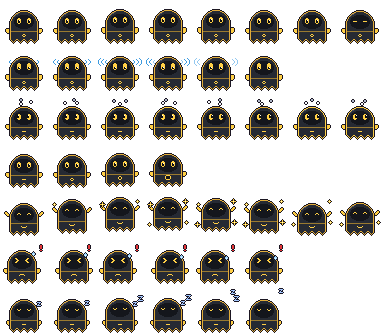
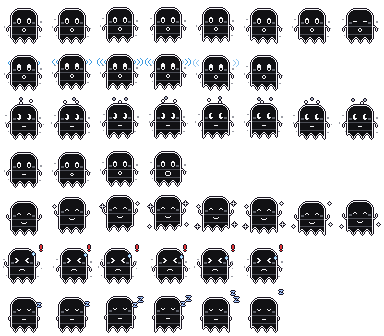
feat(pets): redraw Gigi after the brand mark
Gigi was a gold-rimmed robot that matched neither docs/BRAND.md nor the app
icon. It is now the black-and-white bit-ghost: white edge, white oval eyes
with black pupils, grey cheek marks and bands, the small "o" mouth, thin
hanging arms, three sharp hem teeth and the loose grey bits. It floats
instead of breathing, the hem drifts sideways each frame, the bits twinkle
at rest and jitter while it thinks, the arms flail on errors, and the
success sparkles are white instead of gold.

Changed region(s): [[0.0, 0.0, 1.0, 0.4167], [0.0, 0.744, 0.75, 1.0], [0.0, 0.4464, 1.0, 0.7143]]

diff --git a/scripts/pets/build_pets.py b/scripts/pets/build_pets.py
@@ -31,7 +31,7 @@ import math
 import sys
 from collections.abc import Callable, Iterable, Iterator, Mapping, Sequence
 from contextlib import contextmanager
-from dataclasses import dataclass, field
+from dataclasses import dataclass, field, replace
 from pathlib import Path
 
 REPO_ROOT = Path(__file__).resolve().parents[2]
@@ -528,7 +528,12 @@ _SPARK_L = ("..#..", "..#..", "##o##", "..#..", "..#..")
 _SPARK_PALETTE = {"#": SPARK, "o": SPARK_CORE}
 
 
-def fx_sparkles(f: Frame, i: int, spots: Sequence[tuple[int, int, int]]) -> None:
+def fx_sparkles(
+    f: Frame,
+    i: int,
+    spots: Sequence[tuple[int, int, int]],
+    palette: Mapping[str, RGBA] = _SPARK_PALETTE,
+) -> None:
     """Sparkles at ``(x, y, first_frame)`` centres: small, big, small, gone."""
     for x, y, start in spots:
         age = i - start
@@ -536,7 +541,7 @@ def fx_sparkles(f: Frame, i: int, spots: Sequence[tuple[int, int, int]]) -> None
             continue
         rows = _SPARK_L if age in (1, 2) else _SPARK_S
         half = len(rows) // 2
-        f.glyph(x - half, y - half, rows, _SPARK_PALETTE)
+        f.glyph(x - half, y - half, rows, palette)
 
 
 _Z_SMALL = ("####", "..#.", ".#..", "####")
@@ -635,96 +640,175 @@ class PetDesign:
 
 
 # -- Gigi: the Jarvis ghost ---------------------------------------------------
+#
+# Drawn after the brand mark (``assets/icons/jarvis-gigi-256.png``, docs/BRAND.md):
+# a black body with a white edge, a rounded head with straight sides, white
+# oval eyes with black pupils, grey cheek marks, two grey bands with a small
+# "o" mouth between them, thin hanging arms, three sharp teeth along the hem
+# and loose grey bits around it. A ghost floats, so Gigi bobs instead of
+# breathing, and the hem flows sideways one pixel a frame.
 
-GIGI_BODY = hexc("#262a33")
-GIGI_RIM = hexc("#e2ad3a")
-GIGI_PLATE = hexc("#14161c")
-GIGI_GLOSS = hexc("#4d5465")
-GIGI_BELT = hexc("#9a7a30")
-GIGI_GOLD = hexc("#ffcf45")
-GIGI_EYES = EyeStyle(
-    w=4, h=6, iris=GIGI_GOLD, pupil=hexc("#0b0c10"), glint=hexc("#fffbe6"), lid=GIGI_GOLD
-)
+GIGI_BODY = hexc("#111114")
+GIGI_WHITE = hexc("#f4f4f6")
+GIGI_PUPIL = hexc("#0b0b0d")
+GIGI_BAND = hexc("#4b4d55")
+GIGI_CHEEK = hexc("#5c5f68")
+GIGI_BIT = hexc("#9a9ca4")
+GIGI_EYES = EyeStyle(w=4, h=6, iris=GIGI_WHITE, pupil=GIGI_PUPIL, glint=None, lid=GIGI_WHITE)
+#: Brand sparkles: white with a bright core instead of the shared gold.
+GIGI_SPARK = {"#": hexc("#d9dbe2"), "o": hexc("#ffffff")}
+
+#: The body box: columns 11-36 (symmetric about CX), head from row 9, full
+#: width down to row 36, then the toothed hem.
+_GIGI_X0, _GIGI_X1, _GIGI_TOP, _GIGI_SKIRT = 11, 36, 9, 36
+_GIGI_RADIUS = 9
+#: Hem depth per column within one tooth (period 9): sharp tips, narrow valleys,
+#: about three teeth across the body like the brand mark.
+_GIGI_TOOTH = (1, 2, 3, 5, 6, 5, 3, 2, 1)
+#: The idle float: up a pixel and back over the seven ordinary idle cells.
+_GIGI_FLOAT = (0, 0, -1, -1, -1, 0, 0)
+_GIGI_THINK_FLOAT = (0, 0, -1, -1, -1, -1, 0, 0)
 
 
 def _gigi_body(phase: int) -> Mask:
-    dome = {p for p in ellipse(CX, 25, 14, 14) if p[1] <= 24}
-    torso = rect(10, 25, 37, 38)
-    teeth: Mask = set()
-    for k in range(4):
-        apex = 13 + 7 * k + phase
-        for r in range(4):
-            for x in range(apex - (3 - r), apex + (3 - r) + 1):
-                if 10 <= x <= 37:
-                    teeth.add((x, 39 + r))
-    return dome | torso | teeth
+    """The silhouette; ``phase`` slides the hem's teeth sideways."""
+    body: Mask = set()
+    left_c = (_GIGI_X0 + _GIGI_RADIUS, _GIGI_TOP + _GIGI_RADIUS)
+    right_c = (_GIGI_X1 + 1 - _GIGI_RADIUS, _GIGI_TOP + _GIGI_RADIUS)
+    for y in range(_GIGI_TOP, _GIGI_SKIRT + 1):
+        for x in range(_GIGI_X0, _GIGI_X1 + 1):
+            px, py = x + 0.5, y + 0.5
+            if py < left_c[1]:
+                centre = left_c if px < left_c[0] else right_c if px > right_c[0] else None
+                if centre is not None and math.hypot(px - centre[0], py - centre[1]) > _GIGI_RADIUS:
+                    continue
+            body.add((x, y))
+    period = len(_GIGI_TOOTH)
+    for x in range(_GIGI_X0, _GIGI_X1 + 1):
+        depth = _GIGI_TOOTH[(x - _GIGI_X0 + phase) % period]
+        body |= {(x, _GIGI_SKIRT + k) for k in range(1, depth + 1)}
+    return body
 
 
+def _gigi_hem_phase(pose: Pose) -> int:
+    """One pixel of drift per frame, looping cleanly over each looping row.
+
+    Talking frames are picked by the voice level, not in order, and the error
+    shake is busy enough: both keep the hem still.
+    """
+    if pose.state in ("talking", "error"):
+        return 0
+    frames = len(_GIGI_FLOAT) if pose.state == "idle" else FRAME_COUNTS[pose.state]
+    return pose.i * len(_GIGI_TOOTH) // frames
+
+
+#: Thin arms hanging from the upper band, left side (the right one is mirrored).
+#: The first pixel sits in the body's outline column so the arm joins the edge.
 _GIGI_ARMS = {
-    "rest": from_rows(6, 29, ("###.", "####", "####", ".###")),
-    "up": from_rows(5, 19, ("##..", "###.", ".###", "..##")),
-    "droop": from_rows(7, 32, ("###", "###", "###", ".##")),
+    "rest": frozenset({(10, 26), (9, 26), (8, 27), (7, 28), (7, 29), (7, 30)}),
+    "up": frozenset({(10, 26), (9, 26), (8, 25), (7, 24), (7, 23), (7, 22)}),
+    "droop": frozenset({(10, 27), (9, 28), (9, 29), (9, 30)}),
 }
 
 
 def _gigi_arm_style(pose: Pose) -> str:
-    return {"success": "up", "sleeping": "droop"}.get(pose.state, "rest")
+    if pose.state == "success":
+        return "up"
+    if pose.state == "error":
+        return "up" if pose.i % 2 == 0 else "rest"  # flailing
+    if pose.state == "sleeping":
+        return "droop"
+    return "rest"
+
+
+#: The loose bits around the brand mark.
+_GIGI_BITS: tuple[Mask, ...] = (
+    rect(6, 19, 7, 19),
+    rect(4, 26, 4, 27),
+    {(8, 35)},
+    rect(40, 21, 41, 22),
+    {(42, 28)},
+    rect(39, 36, 40, 36),
+)
+
+
+def _gigi_bits(f: Frame, pose: Pose) -> None:
+    """Idle bits twinkle one or two at a time; thinking and errors make them jitter."""
+    if pose.state in ("success", "sleeping"):
+        return
+    for k, bit in enumerate(_GIGI_BITS):
+        if pose.state in ("thinking", "error"):
+            f.paint(shifted(bit, (pose.i + 2 * k) % 3 - 1, 0), GIGI_BIT)
+        elif (pose.i + k) % 4 != 0:
+            f.paint(bit, GIGI_BIT)
+
+
+def gigi_pose(state: str, i: int) -> Pose:
+    pose = base_pose(state, i)
+    if state == "idle" and i < len(_GIGI_FLOAT):
+        return replace(pose, dy=_GIGI_FLOAT[i], stretch=0)
+    if state == "listening":
+        return replace(pose, dy=-1 - (1 if 1 <= i <= 3 else 0), stretch=0)
+    if state == "thinking":
+        return replace(pose, dy=_GIGI_THINK_FLOAT[i])
+    return pose
 
 
 def draw_gigi(f: Frame, pose: Pose) -> None:
-    phase = (pose.i // 2) % 2 if pose.state in ("idle", "sleeping") else pose.i % 2
     with f.offset(pose.dx, pose.dy):
+        body = _gigi_body(_gigi_hem_phase(pose))
+        f.part(body, shade(body, GIGI_BODY, rim=GIGI_WHITE))
         arm = _GIGI_ARMS[_gigi_arm_style(pose)]
-        f.part(arm, GIGI_GOLD)
-        f.part(mirrored(arm), GIGI_GOLD)
-        body = _gigi_body(phase)
-        glowing = pose.state == "thinking" and (pose.i // 2) % 2 == 1
-        f.part(body, shade(body, GIGI_BODY, rim=GIGI_GOLD if glowing else GIGI_RIM))
-        f.paint(ellipse(CX, 22, 10, 7), GIGI_PLATE)
-        f.paint({(14, 16), (15, 15), (16, 14), (17, 14), (18, 13)}, GIGI_GLOSS)
-        f.paint(rect(11, 31, 36, 31), GIGI_BELT)
+        for side in (set(arm), mirrored(arm)):
+            f.paint(outer_ring(side) - body, OUTLINE)
+            f.paint(side, GIGI_WHITE)
+        f.paint(rect(12, 26, 35, 26) | rect(12, 34, 35, 34), GIGI_BAND)
+        cheek = rect(13, 22, 15, 23)
+        f.paint(cheek | mirrored(cheek), GIGI_CHEEK)
         draw_eyes(f, pose.eyes, (17, 18), (27, 18), GIGI_EYES)
         _gigi_mouth(f, pose.mouth)
+        _gigi_bits(f, pose)
 
 
 def _gigi_mouth(f: Frame, style: str) -> None:
-    ring = from_rows(22, 34, (".##.", "#..#", ".##."))
-    if style == "rest":
-        f.paint(ring, GIGI_GOLD)
+    """The brand's small "o", white on the black body, between the two bands."""
+    if style in ("rest", "open"):
+        f.paint(from_rows(22, 28, (".##.", "#..#", "#..#", ".##.")), GIGI_WHITE)
     elif style == "closed":
-        f.paint(rect(22, 35, 25, 35), GIGI_GOLD)
+        f.paint(rect(22, 30, 25, 30), GIGI_WHITE)
     elif style == "half":
-        f.paint(ring, GIGI_GOLD)
-        f.paint(rect(23, 35, 24, 35), GIGI_PLATE)
-    elif style == "open":
-        mid = from_rows(22, 33, (".##.", "#..#", "#..#", ".##."))
-        f.paint(rect(23, 34, 24, 35), GIGI_PLATE)
-        f.paint(mid, GIGI_GOLD)
+        f.paint(from_rows(22, 29, (".##.", "#..#", ".##.")), GIGI_WHITE)
     elif style == "wide":
-        big = from_rows(21, 32, (".####.", "#....#", "#....#", "#....#", ".####."))
-        f.paint(rect(22, 33, 25, 35), GIGI_PLATE)
-        f.paint(big, GIGI_GOLD)
+        rows = (".####.", "#....#", "#....#", "#....#", ".####.")
+        f.paint(from_rows(21, 28, rows), GIGI_WHITE)
     elif style == "smile":
-        f.paint(from_rows(21, 34, ("#....#", ".####.")), GIGI_GOLD)
+        f.paint(from_rows(21, 29, ("#....#", ".####.")), GIGI_WHITE)
     elif style == "frown":
-        f.paint(from_rows(21, 34, (".####.", "#....#")), GIGI_GOLD)
+        f.paint(from_rows(21, 29, (".####.", "#....#")), GIGI_WHITE)
     else:
         raise KeyError(style)
 
 
+GIGI_ANCHORS = Anchors(
+    arcs_left=(9, 16),
+    arcs_right=(38, 16),
+    dots=(19, 4),
+    zzz=(37, 15),
+    bang=(40, 5),
+    sparkles=((6, 14, 1), (41, 11, 2), (5, 34, 3), (42, 32, 3)),
+)
+
 GIGI = PetDesign(
     id="gigi",
     name="Gigi",
-    description="The Jarvis ghost, eight bits tall, with glowing golden eyes.",
+    description="The Jarvis ghost, eight bits tall: it floats, glitches while it thinks.",
     draw=draw_gigi,
-    anchors=Anchors(
-        arcs_left=(10, 15),
-        arcs_right=(37, 15),
-        dots=(19, 5),
-        zzz=(37, 14),
-        bang=(40, 5),
-        sparkles=((6, 12, 1), (41, 9, 2), (5, 32, 3), (42, 30, 3)),
-    ),
+    pose=gigi_pose,
+    anchors=GIGI_ANCHORS,
+    # An empty row between the mouth and the lower band: the hop's squash and
+    # stretch repeat or drop it without touching the face.
+    waist=33,
+    fx={"success": lambda f, pose: fx_sparkles(f, pose.i, GIGI_ANCHORS.sparkles, GIGI_SPARK)},
 )
 
 

diff --git a/docs/pets.md b/docs/pets.md
@@ -171,7 +171,7 @@ committed PNGs match the script). User-created pets live in
 
 | Id | Name | Idea |
 |---|---|---|
-| `gigi` | Gigi | The Jarvis ghost as a pixel sprite (default) |
+| `gigi` | Gigi | The Jarvis ghost in its brand black and white: it floats, and its loose bits glitch while it thinks (default) |
 | `miso` | Miso | A cat: ears up while listening, curls up to sleep |
 | `brew` | Brew | A teapot: steams while thinking, whistles while talking |
 | `bolt` | Bolt | A battery: charges while thinking, sparks on success, runs flat asleep |
